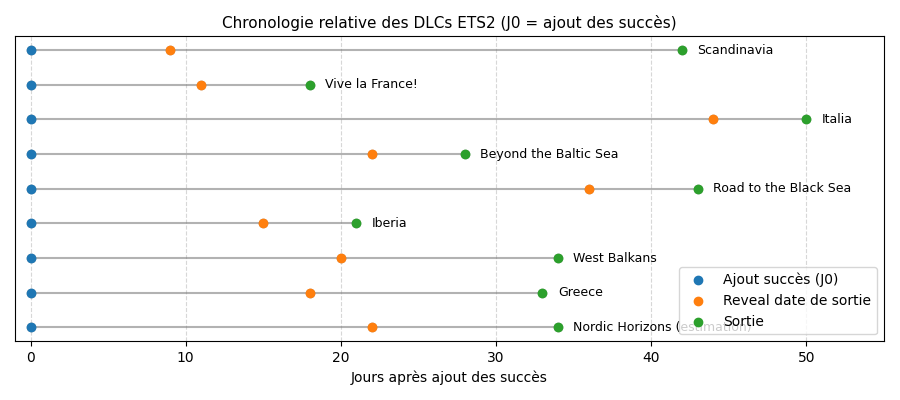
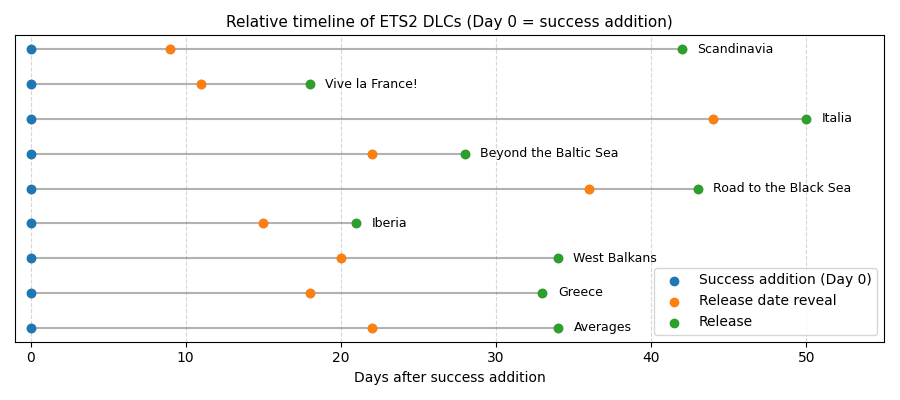
correction ajout des averages dans le graphe evolution + exemples dans le readme maj

diff --git a/src/main.py b/src/main.py
@@ -138,8 +138,8 @@ def evolution(dlcs, game):
     choice = "4"
     while not(choice == "1" or choice == "2" or choice == "3"):
         choice = input("Choose a number > ")
-    if choice != 3:
-        if choice == 1:
+    if choice != "3":
+        if choice == "1":
             dlcs_graph.append(["Averages", 0, averages(dlcs)[0], averages(dlcs)[1]])
 
         fig2, ax2 = plt.subplots(figsize=(9,4))

diff --git a/README.md b/README.md
@@ -9,27 +9,48 @@ The prediction is calculated from historical data of previous DLCs, using averag
 
 
 ## Example Output
+```
+Type q to quit at any time.
+--------------------------------------------------------------------
+Select the game you want to analyze.
+1. Euro Truck Simulator 2
+2. American Truck Simulator
+Choose a number > 1
+--------------------------------------------------------------------
+1. Show average delays between success addition and reveal/release
+2. Show historical delays for each released DLC in a timeline graph
+3. Show evolution of delays between steps in a different graph
+4. Predict dates for the next DLC (if its successes were added)
+5. Go back
+Choose a number > 4
+--------------------------------------------------------------------
+Next DLC name: Nordic Horizons
+Date of success addition (format DD/MM/YYYY): 23/10/2025
 
-In the console :
+=== Estimate for Nordic Horizons if delays are the same as Greece (last release) ===
+Success addition: 23 October 2025
+Estimated reveal date: 10 November 2025
+Estimated release date: 25 November 2025
+Estimated release (closest Thursday): 27 November 2025
 
-Nom du jeu (ets2/ats) : ets2 \
-Nom du prochain DLC : Nordic Horizons \
-Date d'ajout des succès (format JJ/MM/AAAA) : 23/10/2025 \
-Moyenne délai succès - reveal : 22 \
-Moyenne délai succès - sortie : 34
+=== Estimate for Nordic Horizons based on averages ===
+Success addition: 23 October 2025
+Average reveal date: 14 November 2025
+Average release date: 26 November 2025
+Average release (closest Thursday): 27 November 2025
+--------------------------------------------------------------------
 
-=== Estimation pour Nordic Horizons si les délais sont identiques à Greece === \
-Ajout des succès : 23 October 2025 \
-Reveal de la date de sortie estimée : 10 November 2025 \
-Sortie estimée du DLC estimée : 25 November 2025 \
-Sortie estimée du DLC (jeudi le plus proche) : 27 November 2025
-
-=== Estimation pour Nordic Horizons avec les moyennes === \
-Ajout des succès : 23 October 2025 \
-Reveal de la date de sortie en moyenne : 14 November 2025 \
-Sortie estimée du DLC en moyenne : 26 November 2025 \
-Sortie estimée du DLC (jeudi le plus proche de la moyenne) : 27 November 2025
-
+Press Enter to continue...
+--------------------------------------------------------------------
+1. Show average delays between success addition and reveal/release
+2. Show historical delays for each released DLC in a timeline graph
+3. Show evolution of delays between steps in a different graph
+4. Predict dates for the next DLC (if its successes were added)
+5. Go back
+Choose a number > 1
+Average delay success → reveal: 22 days
+Average delay success → release: 34 days
+```
 Charts generated : 
 
 ![chronologie](chrolonogie_ex.png)
